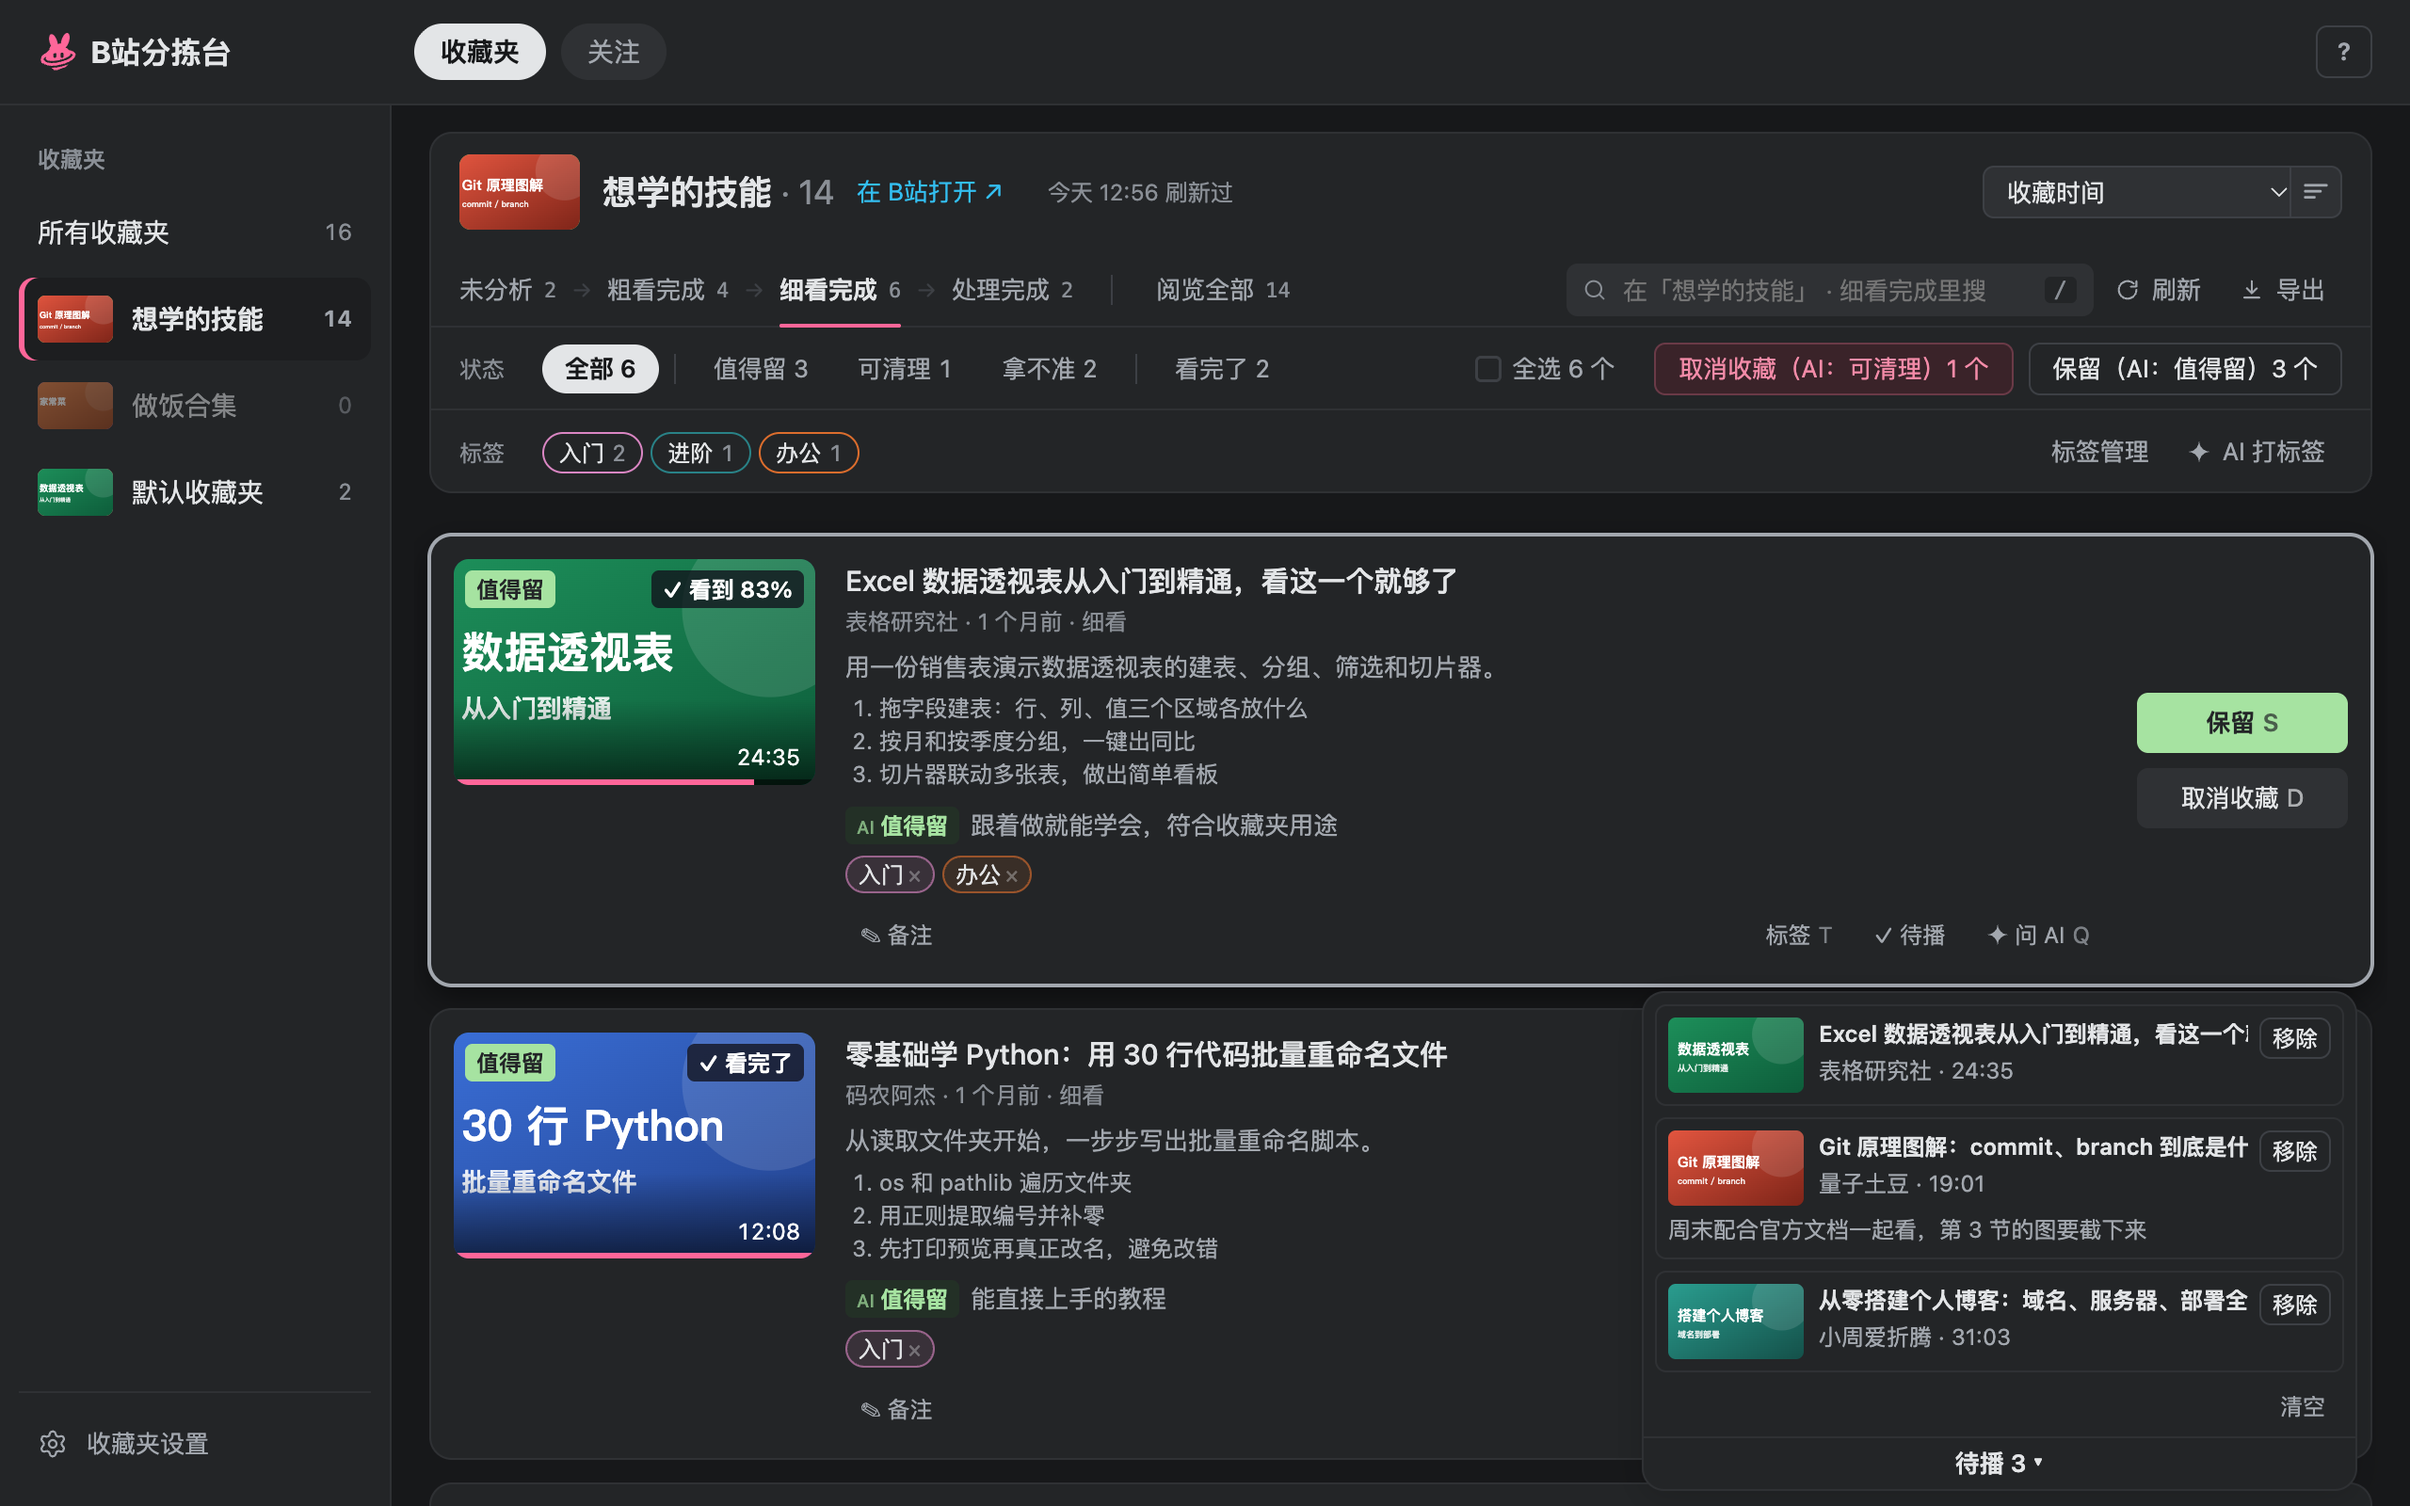
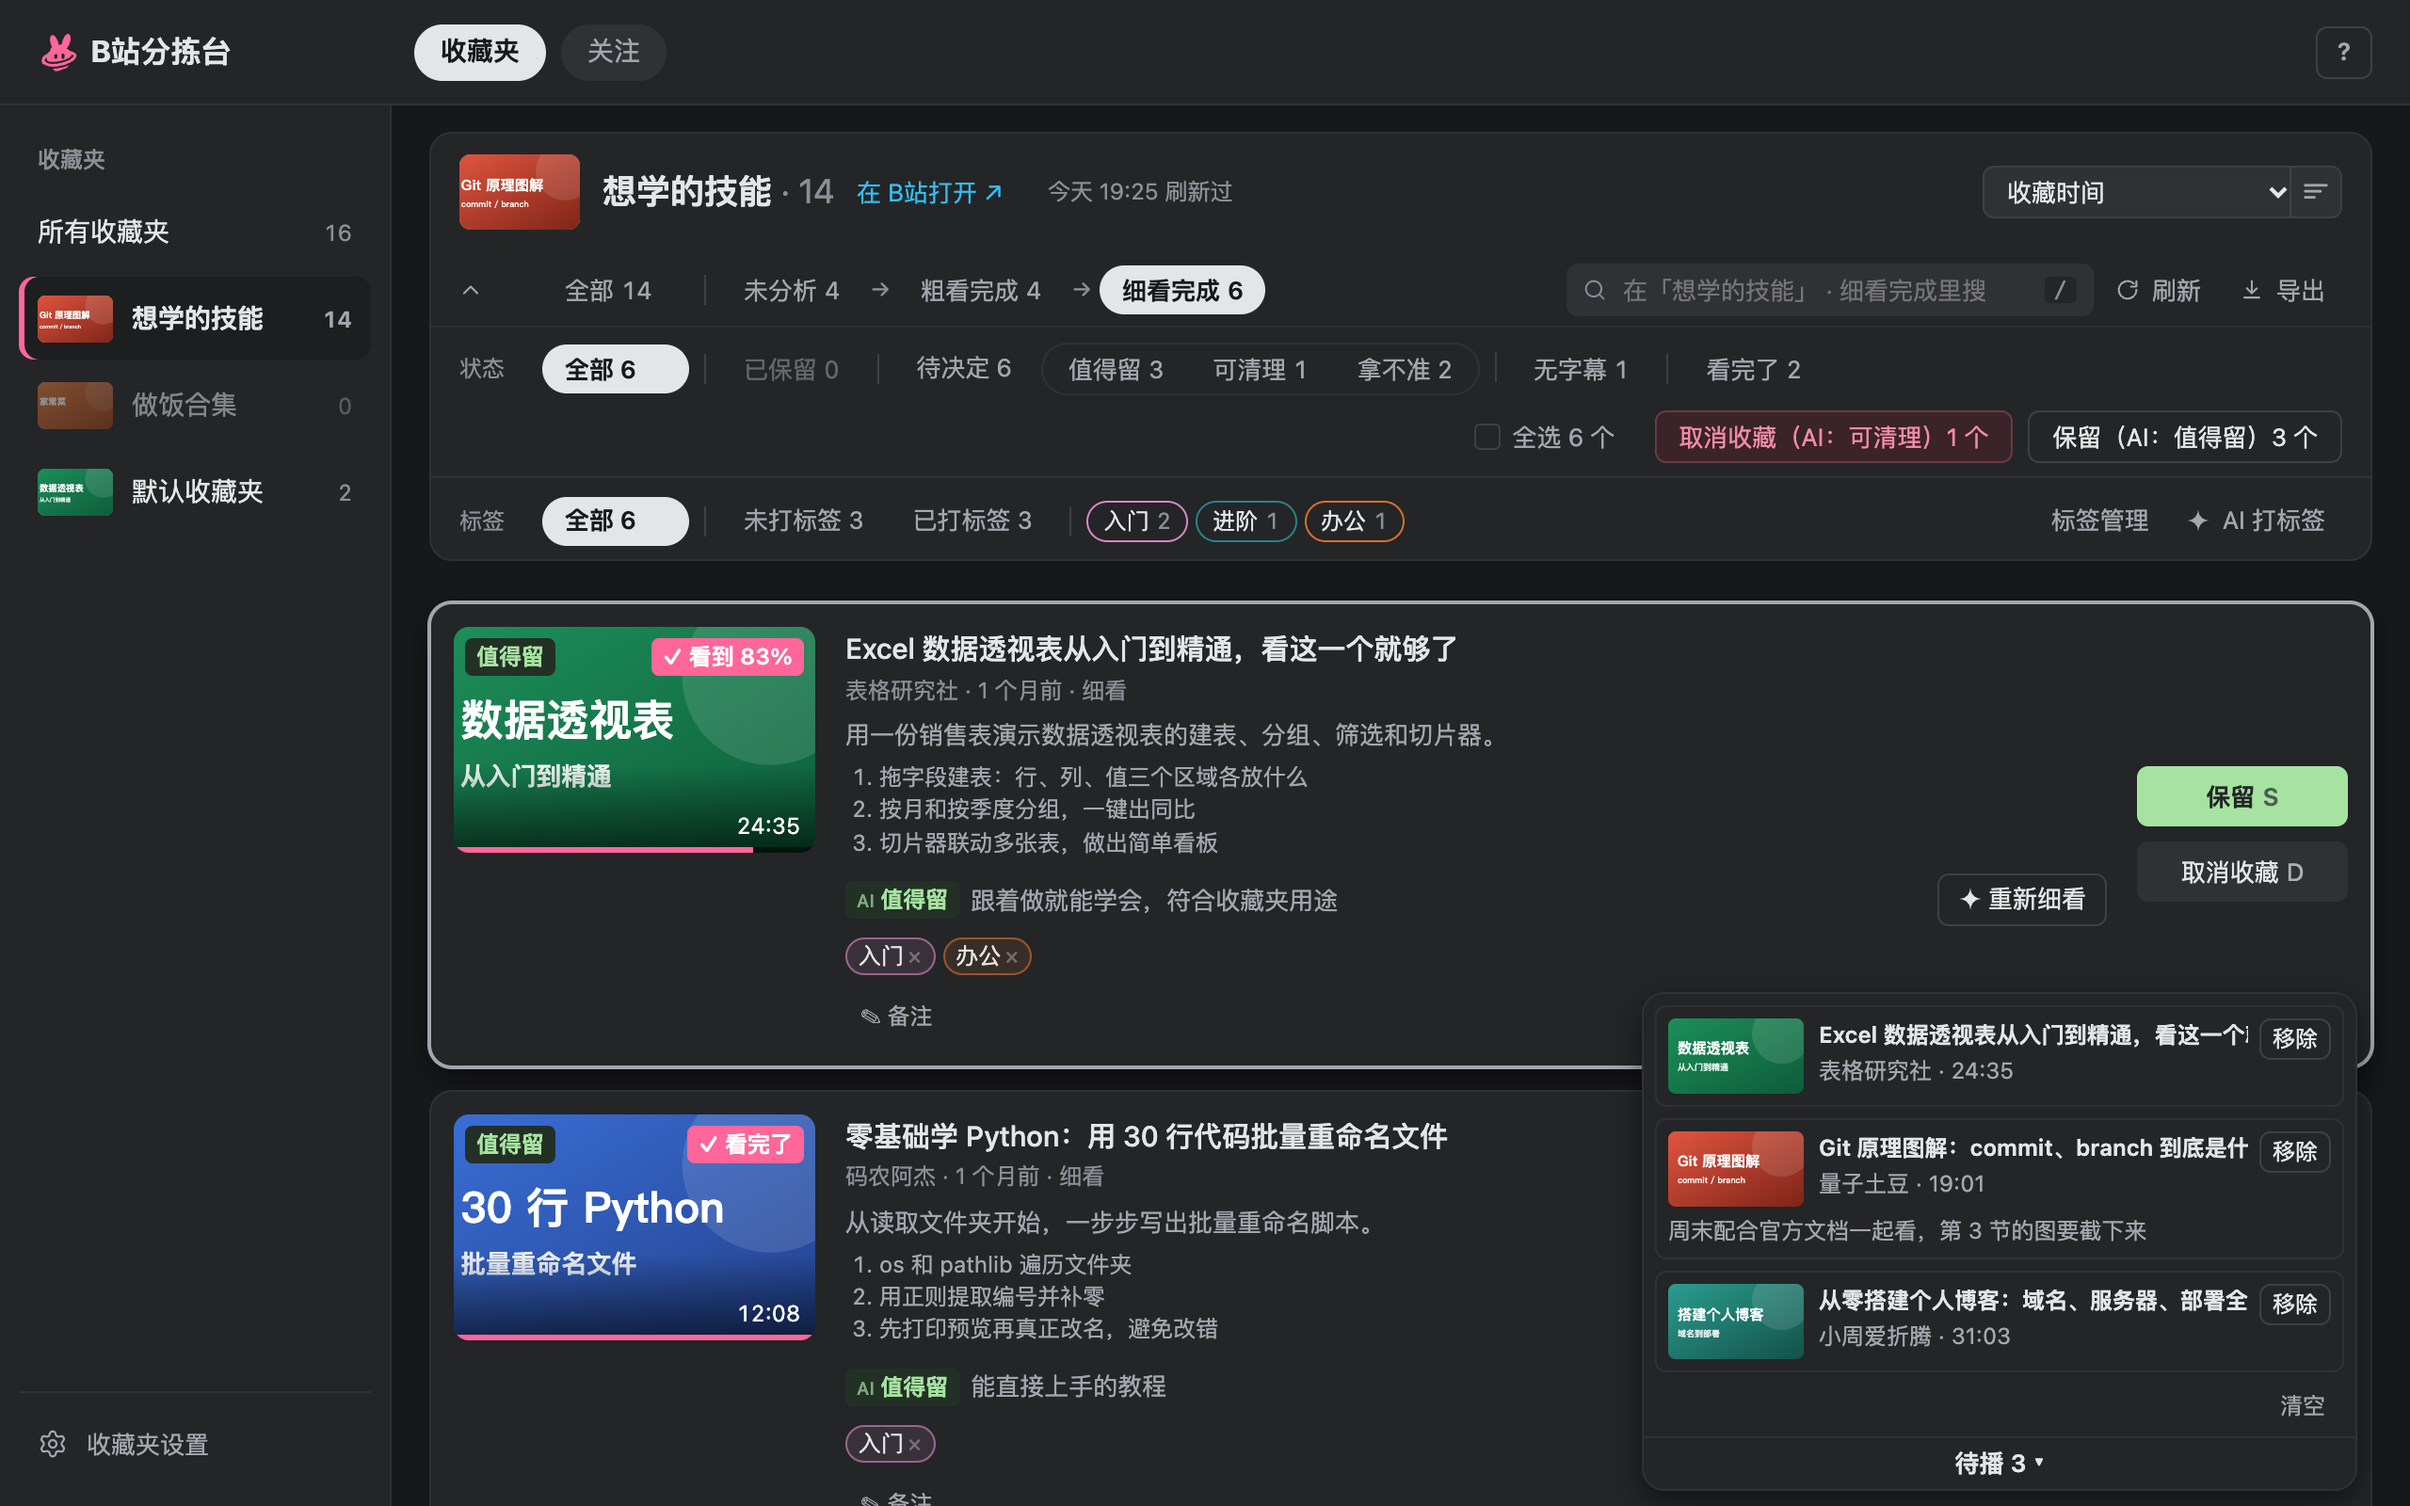
版本 3.7.8 (#460)
* 版本 3.7.8；README 截图换成新分拣台和设置页，补「允许 Agent 改分拣台」

* README：分拣台截图的说明跟上新页签

diff --git a/README.md b/README.md
@@ -7,7 +7,7 @@
 收藏了却没看的视频、想读的网页，用 AI 帮你读完、整理好，挑出真正要看的。
 
 [![Chrome MV3](https://img.shields.io/badge/Chrome-MV3-4285F4?logo=googlechrome&logoColor=white)](https://developer.chrome.com/docs/extensions/develop/migrate/what-is-mv3)
-[![Version](https://img.shields.io/badge/version-3.7.7-7c6cf2)](extension/manifest.json)
+[![Version](https://img.shields.io/badge/version-3.7.8-7c6cf2)](extension/manifest.json)
 [![Platforms](https://img.shields.io/badge/platforms-Bilibili%20%7C%20YouTube-fb7299)](#功能)
 [![License](https://img.shields.io/badge/license-GPL--3.0-blue)](LICENSE)
 
@@ -47,12 +47,12 @@
 - 导出 Markdown，或写入 Obsidian（可选，设置页有配置指引）。
 
 <p align="center">
-  <img src="docs/images/triage-light.png" alt="B站分拣台：左边是收藏夹列表和 AI 判断筛选，中间是「想学的技能」收藏夹的细看完成步骤，卡片上有一句话总结、要点、AI 判断和标签，封面上有观看进度条和「✓ 看到 83%」「✓ 看完了」标记；右下角展开了待播" width="900">
+  <img src="docs/images/triage-light.png" alt="B站分拣台：左边是收藏夹列表，中间顶部是全部、未分析、粗看完成、细看完成四个页签和 AI 判断筛选，当前在「想学的技能」收藏夹的细看完成，卡片上有一句话总结、要点、AI 判断和标签，封面上有观看进度条和「✓ 看到 83%」「✓ 看完了」标记；右下角展开了待播" width="900">
 </p>
 
 ## 给 AI agent 用
 
-Agent 碰到视频通常只能看标题和封面。装了 MoonDigest，agent 能借你浏览器的登录状态拿到视频的字幕、章节、简介和热门评论，还能截取任意一秒的画面。用 MCP 时，agent 还能借你的登录搜 B站和 YouTube 视频。不下载视频，不花 AI 额度，读不到你的 Key 和 AI 对话。你的收藏夹、关注、观看历史和分拣台里的标签、备注，只有打开「允许 Agent 读我的收藏、关注和历史」后才能通过 MCP 读；B站稍后再看、YouTube 稍后观看和 YouTube 播放列表，再打开「允许 Agent 改我的收藏」后 agent 才能改。两种接法：
+Agent 碰到视频通常只能看标题和封面。装了 MoonDigest，agent 能借你浏览器的登录状态拿到视频的字幕、章节、简介和热门评论，还能截取任意一秒的画面。用 MCP 时，agent 还能借你的登录搜 B站和 YouTube 视频。不下载视频，不花 AI 额度，读不到你的 Key 和 AI 对话。你的收藏夹、关注、观看历史和分拣台里的标签、备注，只有打开「允许 Agent 读我的收藏、关注和历史」后才能通过 MCP 读；分拣台的 AI 判断、保留、备注和标签，再打开「允许 Agent 改分拣台」后 agent 才能写，取消收藏、移动和复制只能提议，要你在分拣台确认；B站稍后再看、YouTube 稍后观看和 YouTube 播放列表，再打开「允许 Agent 改我的收藏」后 agent 才能改。两种接法：
 
 - **skill**（agent 能操控浏览器，如 ego、Claude in Chrome、Playwright）：
 
